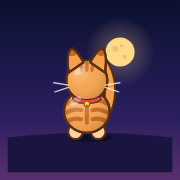
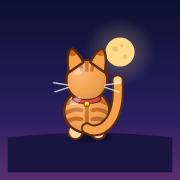
Queue du chat devant le corps, cohérente avec la vue de dos
La queue part du bas du dos (côté caméra), passe devant le corps et les
déguisements, puis remonte sur le côté. La nageoire du déguisement Sardine
suit la queue sur une couche à part. Icône de l'application redessinée.

Claude-Session: https://claude.ai/code/session_01JdYRHE65jz55i9QTGZhUWS

Changed region(s): [[0.4444, 0.3333, 0.6944, 0.7778]]

diff --git a/index.html b/index.html
@@ -2917,17 +2917,6 @@
     const cos = o.costume && o.costume !== 'none' ? o.costume : null;
     if (cos) drawCostume(c, cos, 'back', { by: -23 - bob, hy: -50 - bob, bob, t: o.t, air });
 
-    // Tail, with a light tip
-    const sway = Math.sin(o.t * 6) * 10;
-    const tipX = 12 + sway, tipY = (air ? -78 : -68) - bob;
-    c.beginPath();
-    c.moveTo(4, -12 - bob);
-    c.bezierCurveTo(22 + sway * 0.3, -18, 26 + sway, -48, tipX, tipY);
-    c.strokeStyle = sk.outline; c.lineWidth = 10.5; c.stroke();
-    c.strokeStyle = sk.tail || sk.fur; c.lineWidth = 7; c.stroke();
-    c.fillStyle = sk.tailTip || sk.paw;
-    c.beginPath(); c.arc(tipX, tipY, 3.6, 0, TAU); c.fill();
-
     // Round back paws
     for (const [px, lift] of [[-10, legA], [10, legB]]) {
       c.beginPath(); c.arc(px, -5 - lift, 6.5, 0, TAU); strokeFill(c, sk, sk.paw);
@@ -2968,7 +2957,20 @@
     }
     c.restore();
     shadeShape(c, sk, body, by, 20);
-    if (cos) drawCostume(c, cos, 'body', { by, hy: -50 - bob, bob, t: o.t, air, tipX, tipY });
+    if (cos) drawCostume(c, cos, 'body', { by, hy: -50 - bob, bob, t: o.t, air });
+
+    // Tail: seen from behind, it starts low on the back, toward the camera,
+    // so it is drawn over the body, then curls up beside it with a light tip
+    const sway = Math.sin(o.t * 6) * 6;
+    const tipX = 27 + sway, tipY = (air ? -58 : -50) - bob;
+    c.beginPath();
+    c.moveTo(0, -8 - bob);
+    c.bezierCurveTo(10, -2 - bob, 30 + sway * 0.4, -10 - bob, tipX, tipY);
+    c.strokeStyle = sk.outline; c.lineWidth = 10.5; c.stroke();
+    c.strokeStyle = sk.tail || sk.fur; c.lineWidth = 7; c.stroke();
+    c.fillStyle = sk.tailTip || sk.paw;
+    c.beginPath(); c.arc(tipX, tipY, 3.6, 0, TAU); c.fill();
+    if (cos) drawCostume(c, cos, 'tail', { by, hy: -50 - bob, bob, t: o.t, air, tipX, tipY });
 
     const hy = -50 - bob;
 
@@ -5733,14 +5735,18 @@
       }
     },
     sardine(c, layer, g) {
+      if (layer === 'tail') {
+        // Tail fin at the tip of the cat's tail
+        c.beginPath(); c.moveTo(g.tipX, g.tipY + 2); c.lineTo(g.tipX - 9, g.tipY - 9); c.quadraticCurveTo(g.tipX, g.tipY - 4, g.tipX + 9, g.tipY - 9); c.closePath();
+        cosShape(c, '#7ad0ff', '#1f5a8a', 1.3);
+        return;
+      }
       if (layer !== 'body') return;
       scales(c, g.by, '#4aa8e0', '#1f5a8a');
       c.beginPath(); c.ellipse(0, g.by, 20, 19, 0, 0, TAU); c.strokeStyle = '#123a5a'; c.lineWidth = 1.9; c.stroke();
       c.beginPath(); c.moveTo(0, g.by - 18);
       for (let k = 0; k < 4; k++) { c.lineTo(5, g.by - 13 + k * 8); c.lineTo(0, g.by - 9 + k * 8); }
       c.closePath(); cosShape(c, '#7ad0ff', '#1f5a8a', 1.3);
-      c.beginPath(); c.moveTo(g.tipX, g.tipY + 2); c.lineTo(g.tipX - 9, g.tipY - 9); c.quadraticCurveTo(g.tipX, g.tipY - 4, g.tipX + 9, g.tipY - 9); c.closePath();
-      cosShape(c, '#7ad0ff', '#1f5a8a', 1.3);
     },
   };
   function drawCostume(c, id, layer, g) {
